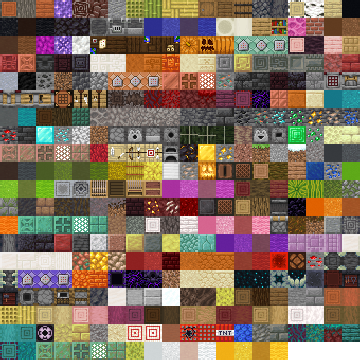
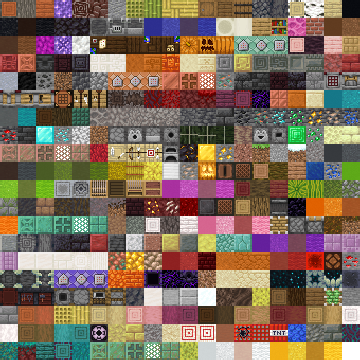
修活塞六面贴图：顶部改成完整的木平台
用户报「活塞的材质有问题，上面应该是一整个平面的」。

原因：图集生成时用启发式填六面（tex.get(face) or tex.get('side') or ...），
而活塞的模型 template_piston 里贴图名字只有 side / platform / bottom，
没有 up / top 这些叫法，于是六个面全被填成 piston_side，顶面看到的是「灰石 + 一条木边」。

- tools/scan_full_blocks.py：加 FACE_OVERRIDES，活塞按「推头朝上」写六面：
  piston：up=piston_top、down=piston_bottom、四侧=piston_side
  sticky_piston：up=piston_top_sticky、其余同
- 重扫 326 个方块，piston 的 faces 变成 {up: piston_top, down: piston_bottom, n/s/e/w: piston_side}
- tools/build_full_atlas.py 重生图集：360×360、tiles 399（原 396，多 3 张）

验证：BlockCatalogData 里 piston 的 FaceTiles = [255, 256, 257, 257, 257, 257]，
255 就是 piston_top 木平台；从图集裁出对比（Logs/piston_tiles.png），
左顶面木平台、中底面、右侧面都对；构建成功。

diff --git a/Assets/Scripts/Core/BlockCatalogData.cs b/Assets/Scripts/Core/BlockCatalogData.cs
@@ -879,12 +879,10 @@ namespace MinecraftTetris
             252, 252, 252, 252, 252, 252,
             253, 253, 253, 253, 253, 253,
             254, 254, 254, 254, 254, 254,
-            255, 255, 255, 255, 255, 255,
-            256, 145, 257, 257, 257, 257,
-            258, 258, 258, 258, 258, 258,
-            259, 259, 260, 260, 260, 260,
-            261, 261, 261, 261, 261, 261,
-            262, 262, 262, 262, 262, 262,
+            255, 256, 257, 257, 257, 257,
+            258, 145, 259, 259, 259, 259,
+            260, 260, 260, 260, 260, 260,
+            261, 261, 262, 262, 262, 262,
             263, 263, 263, 263, 263, 263,
             264, 264, 264, 264, 264, 264,
             265, 265, 265, 265, 265, 265,
@@ -894,98 +892,97 @@ namespace MinecraftTetris
             269, 269, 269, 269, 269, 269,
             270, 270, 270, 270, 270, 270,
             271, 271, 271, 271, 271, 271,
-            50, 50, 52, 52, 52, 52,
             272, 272, 272, 272, 272, 272,
             273, 273, 273, 273, 273, 273,
+            50, 50, 52, 52, 52, 52,
             274, 274, 274, 274, 274, 274,
             275, 275, 275, 275, 275, 275,
             276, 276, 276, 276, 276, 276,
-            277, 277, 278, 278, 278, 278,
+            277, 277, 277, 277, 277, 277,
+            278, 278, 278, 278, 278, 278,
             279, 279, 280, 280, 280, 280,
-            281, 281, 281, 281, 281, 281,
-            282, 282, 283, 283, 283, 283,
-            284, 284, 284, 284, 284, 284,
-            285, 285, 285, 285, 285, 285,
+            281, 281, 282, 282, 282, 282,
+            283, 283, 283, 283, 283, 283,
+            284, 284, 285, 285, 285, 285,
             286, 286, 286, 286, 286, 286,
             287, 287, 287, 287, 287, 287,
             288, 288, 288, 288, 288, 288,
             289, 289, 289, 289, 289, 289,
             290, 290, 290, 290, 290, 290,
-            67, 291, 292, 292, 292, 292,
-            293, 293, 293, 293, 293, 293,
-            294, 294, 294, 294, 294, 294,
+            291, 291, 291, 291, 291, 291,
+            292, 292, 292, 292, 292, 292,
+            67, 293, 294, 294, 294, 294,
             295, 295, 295, 295, 295, 295,
             296, 296, 296, 296, 296, 296,
             297, 297, 297, 297, 297, 297,
-            298, 299, 300, 300, 300, 300,
-            301, 301, 302, 303, 301, 301,
-            304, 304, 304, 304, 304, 304,
-            305, 305, 305, 305, 305, 305,
-            306, 307, 308, 308, 308, 308,
-            309, 309, 309, 309, 309, 309,
-            310, 310, 310, 310, 310, 310,
-            70, 311, 312, 312, 312, 312,
-            313, 313, 313, 313, 313, 313,
-            314, 315, 316, 316, 316, 316,
-            317, 318, 319, 319, 320, 320,
-            321, 322, 323, 324, 324, 324,
-            325, 325, 325, 325, 325, 325,
-            326, 326, 326, 326, 326, 326,
+            298, 298, 298, 298, 298, 298,
+            299, 299, 299, 299, 299, 299,
+            300, 301, 302, 302, 302, 302,
+            303, 303, 304, 305, 303, 303,
+            306, 306, 306, 306, 306, 306,
+            307, 307, 307, 307, 307, 307,
+            308, 309, 310, 310, 310, 310,
+            311, 311, 311, 311, 311, 311,
+            312, 312, 312, 312, 312, 312,
+            70, 313, 314, 314, 314, 314,
+            315, 315, 315, 315, 315, 315,
+            316, 317, 318, 318, 318, 318,
+            319, 320, 321, 321, 322, 322,
+            323, 324, 325, 326, 326, 326,
+            327, 327, 327, 327, 327, 327,
+            328, 328, 328, 328, 328, 328,
             67, 67, 67, 67, 67, 67,
             70, 70, 70, 70, 70, 70,
-            327, 327, 327, 327, 327, 327,
-            327, 327, 328, 328, 328, 328,
             329, 329, 329, 329, 329, 329,
-            330, 330, 330, 330, 330, 330,
+            329, 329, 330, 330, 330, 330,
             331, 331, 331, 331, 331, 331,
             332, 332, 332, 332, 332, 332,
-            333, 333, 334, 334, 334, 334,
-            335, 335, 335, 335, 335, 335,
+            333, 333, 333, 333, 333, 333,
             334, 334, 334, 334, 334, 334,
-            255, 255, 255, 255, 255, 255,
-            336, 336, 336, 336, 336, 336,
+            335, 335, 336, 336, 336, 336,
             337, 337, 337, 337, 337, 337,
-            338, 338, 339, 339, 339, 339,
+            336, 336, 336, 336, 336, 336,
+            338, 256, 257, 257, 257, 257,
             339, 339, 339, 339, 339, 339,
-            340, 340, 341, 341, 341, 341,
-            342, 342, 343, 343, 343, 343,
-            343, 343, 343, 343, 343, 343,
-            344, 344, 345, 345, 345, 345,
-            345, 345, 345, 345, 345, 345,
+            340, 340, 340, 340, 340, 340,
+            341, 341, 342, 342, 342, 342,
+            342, 342, 342, 342, 342, 342,
+            343, 343, 344, 344, 344, 344,
+            345, 345, 346, 346, 346, 346,
             346, 346, 346, 346, 346, 346,
-            347, 347, 346, 346, 346, 346,
-            348, 348, 349, 349, 349, 349,
+            347, 347, 348, 348, 348, 348,
+            348, 348, 348, 348, 348, 348,
             349, 349, 349, 349, 349, 349,
-            350, 350, 351, 351, 351, 351,
-            351, 351, 351, 351, 351, 351,
-            352, 352, 353, 353, 353, 353,
-            353, 353, 353, 353, 353, 353,
-            354, 354, 355, 355, 355, 355,
-            355, 355, 355, 355, 355, 355,
-            356, 356, 357, 357, 357, 357,
-            357, 357, 357, 357, 357, 357,
-            358, 358, 359, 359, 359, 359,
-            359, 359, 359, 359, 359, 359,
+            350, 350, 349, 349, 349, 349,
+            351, 351, 352, 352, 352, 352,
+            352, 352, 352, 352, 352, 352,
+            353, 353, 354, 354, 354, 354,
+            354, 354, 354, 354, 354, 354,
+            355, 355, 356, 356, 356, 356,
+            356, 356, 356, 356, 356, 356,
+            357, 357, 358, 358, 358, 358,
+            358, 358, 358, 358, 358, 358,
+            359, 359, 360, 360, 360, 360,
             360, 360, 360, 360, 360, 360,
-            361, 361, 360, 360, 360, 360,
+            361, 361, 362, 362, 362, 362,
             362, 362, 362, 362, 362, 362,
             363, 363, 363, 363, 363, 363,
-            364, 364, 364, 364, 364, 364,
+            364, 364, 363, 363, 363, 363,
             365, 365, 365, 365, 365, 365,
             366, 366, 366, 366, 366, 366,
-            367, 367, 368, 368, 368, 368,
+            367, 367, 367, 367, 367, 367,
+            368, 368, 368, 368, 368, 368,
             369, 369, 369, 369, 369, 369,
-            370, 371, 372, 372, 372, 372,
-            373, 373, 373, 373, 373, 373,
-            374, 374, 374, 374, 374, 374,
-            375, 375, 375, 375, 375, 375,
+            370, 370, 371, 371, 371, 371,
+            372, 372, 372, 372, 372, 372,
+            373, 374, 375, 375, 375, 375,
             376, 376, 376, 376, 376, 376,
-            377, 110, 378, 378, 378, 378,
+            377, 377, 377, 377, 377, 377,
+            378, 378, 378, 378, 378, 378,
             379, 379, 379, 379, 379, 379,
-            380, 380, 376, 376, 376, 376,
-            381, 381, 381, 381, 381, 381,
+            380, 110, 381, 381, 381, 381,
             382, 382, 382, 382, 382, 382,
-            383, 383, 383, 383, 383, 383,
+            383, 383, 379, 379, 379, 379,
             384, 384, 384, 384, 384, 384,
             385, 385, 385, 385, 385, 385,
             386, 386, 386, 386, 386, 386,
@@ -998,6 +995,9 @@ namespace MinecraftTetris
             393, 393, 393, 393, 393, 393,
             394, 394, 394, 394, 394, 394,
             395, 395, 395, 395, 395, 395,
+            396, 396, 396, 396, 396, 396,
+            397, 397, 397, 397, 397, 397,
+            398, 398, 398, 398, 398, 398,
         };
     }
 }

diff --git a/tools/scan_full_blocks.py b/tools/scan_full_blocks.py
@@ -10,6 +10,20 @@ import zipfile
 JAR = os.path.expandvars(r'%APPDATA%\.minecraft\versions\26.2\26.2.jar')
 OUT = os.path.join(os.path.dirname(os.path.dirname(os.path.abspath(__file__))), "tools", "full_blocks.json")
 
+# 特殊方块：模型里的“平台/推头”面不在 up 上，手动指定六面，避免启发式填错。
+FACE_OVERRIDES = {
+    'piston': {
+        'up': 'piston_top', 'down': 'piston_bottom',
+        'north': 'piston_side', 'south': 'piston_side',
+        'east': 'piston_side', 'west': 'piston_side',
+    },
+    'sticky_piston': {
+        'up': 'piston_top_sticky', 'down': 'piston_bottom',
+        'north': 'piston_side', 'south': 'piston_side',
+        'east': 'piston_side', 'west': 'piston_side',
+    },
+}
+
 CUBE_ROOTS = {
     'cube_all', 'cube', 'cube_column', 'cube_column_horizontal',
     'cube_bottom_top', 'cube_top', 'cube_directional',
@@ -157,6 +171,8 @@ def main():
                 faces[face] = png
         if not faces:
             continue
+        if name in FACE_OVERRIDES:
+            faces = dict(FACE_OVERRIDES[name])
         seq = chain(name) or []
         candidates.append({'name': name, 'zh': zh_name(name), 'root': seq[-1][0] if seq else '', 'faces': faces})
 
